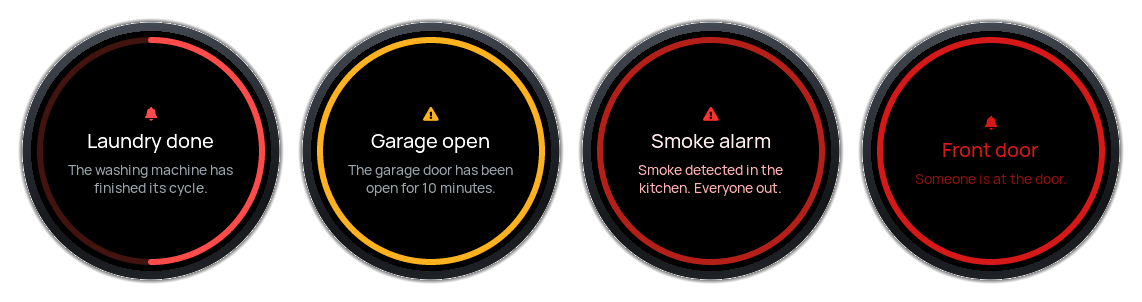
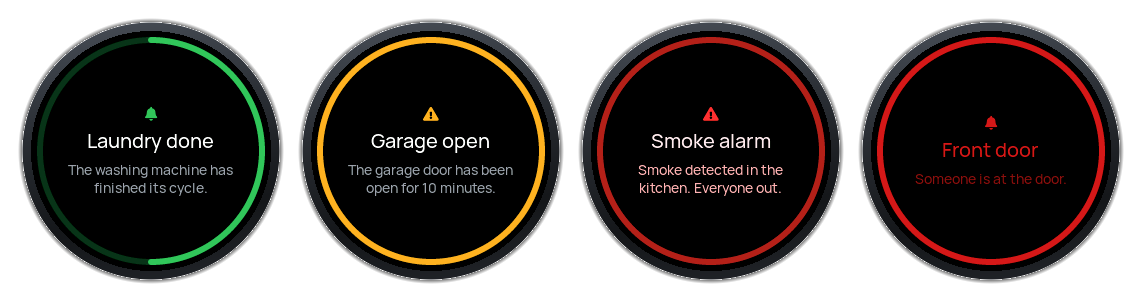
Notifications: info cards are green in the day, night colour at night

diff --git a/src/ui/notify.cpp b/src/ui/notify.cpp
@@ -13,7 +13,7 @@ static int curLevel;
 static char curId[NOTIFY_ID_MAX + 1];
 
 constexpr int RING_SIZE = 228, RING_WIDTH = 6, CONTENT_W = 172;
-constexpr uint32_t ALARM_RED = 0xFF3030, ALARM_TEXT = 0xFFE8E8, ALARM_SUB = 0xFFB0B0, WARN_AMBER = 0xFFB020;
+constexpr uint32_t ALARM_RED = 0xFF3030, ALARM_TEXT = 0xFFE8E8, ALARM_SUB = 0xFFB0B0, WARN_AMBER = 0xFFB020, INFO_GREEN = 0x34C759;
 
 // Copies the text the fonts can draw: printable ASCII and the degree sign. Other characters become '?'
 // (one per character, not per byte) and control characters become spaces.
@@ -42,7 +42,7 @@ void notifyPaint() {
   if (!panel) return;
   Palette p = makePalette();
   bool alarm = curLevel == NOTIFY_ALARM;
-  lv_color_t c = alarm ? lv_color_hex(ALARM_RED) : curLevel == NOTIFY_WARN ? mixDN(WARN_AMBER, nightC(100)) : p.accent;
+  lv_color_t c = alarm ? lv_color_hex(ALARM_RED) : curLevel == NOTIFY_WARN ? mixDN(WARN_AMBER, nightC(100)) : mixDN(INFO_GREEN, nightC(100));
   lv_obj_set_style_arc_color(ring, c, LV_PART_INDICATOR);
   lv_obj_set_style_arc_color(ring, lv_color_mix(c, lv_color_black(), 70), LV_PART_MAIN);
   lv_obj_set_style_text_color(iconLbl, c, 0);

diff --git a/docs/API.md b/docs/API.md
@@ -59,7 +59,7 @@ Send `Content-Type: application/json`. A form-encoded body is not read as JSON.
 |---|---|
 | `title` | Up to 30 characters, one line. |
 | `text` | Up to 80 characters, wraps over about four lines. Send a `title`, a `text` or both. |
-| `level` | `"info"` (default): the clock's theme colour. `"warn"`: amber. `"alarm"`: bright red, pulses, and ignores night mode. Info and warn follow the night colour at night. |
+| `level` | `"info"` (default): green, whatever the theme. `"warn"`: amber. `"alarm"`: bright red, pulses, and ignores night mode. Info and warn follow the night colour at night. |
 | `duration` | Seconds on screen, 0 to 3600 (default 30, `NOTIFY_DEFAULT_SECONDS` in `src/tuning.h`). **0 keeps the card until it is dismissed.** The ring unwinds as the time runs out. |
 | `id` | Up to 24 characters. A name for the card, so `DELETE /api/notify?id=<id>` removes just that one. |
 
